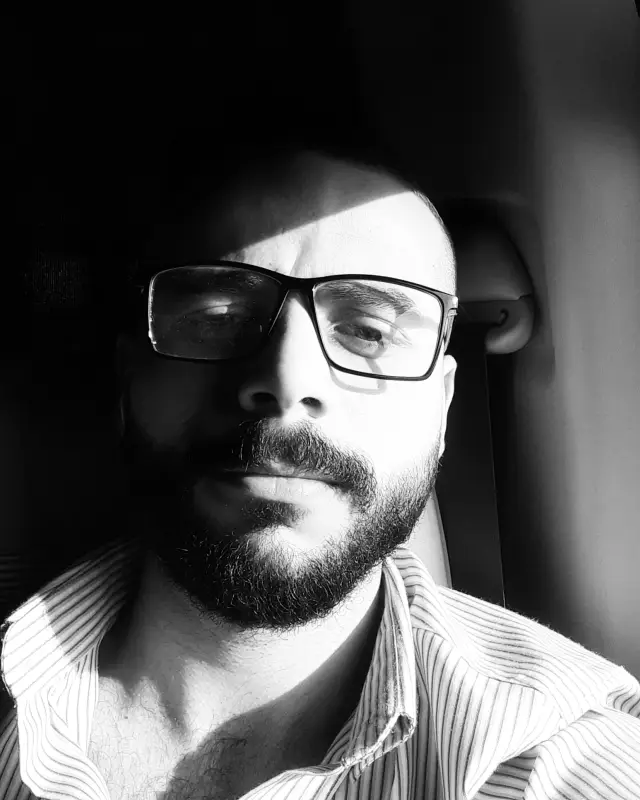
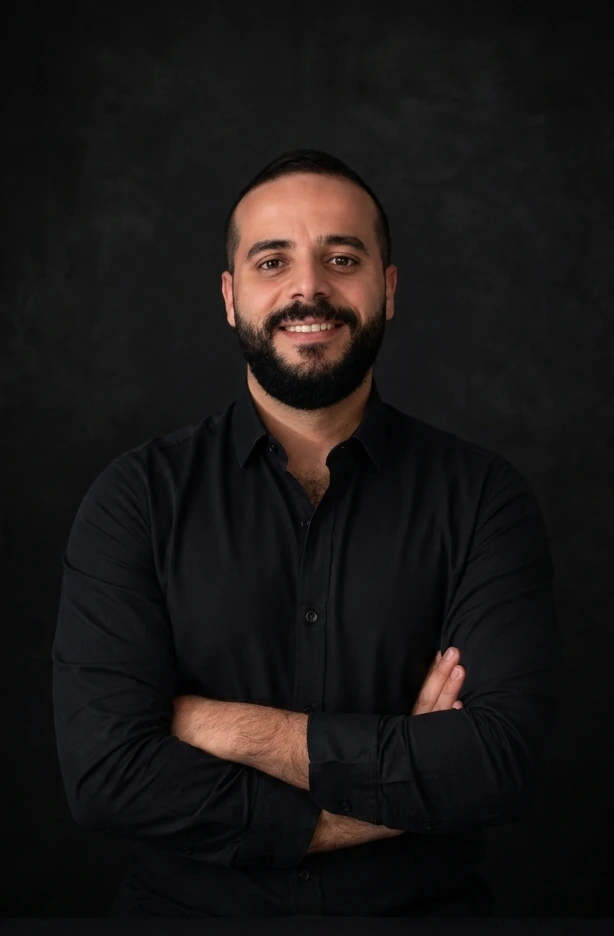
fix: improve image handling and layout in HeroSection and About pages

diff --git a/app/shared/components/app/Portrait.vue b/app/shared/components/app/Portrait.vue
@@ -15,7 +15,8 @@ const props = withDefaults(defineProps<Props>(), {
   alt: 'Portrait of Mohamed Essam',
   loading: 'lazy',
   fetchPriority: 'auto',
-  sizes: '160px',
+  // Featured / about-scale default; pass a tighter sizes hint for small teasers.
+  sizes: '(max-width: 640px) 80vw, 384px',
 });
 </script>
 
@@ -27,10 +28,10 @@ const props = withDefaults(defineProps<Props>(), {
     :loading="props.loading"
     :fetchpriority="props.fetchPriority"
     format="webp"
-    quality="65"
-    :widths="[160, 224, 320]"
+    quality="85"
+    :widths="[320, 480, 640, 768]"
     :sizes="props.sizes"
-    width="320"
-    height="400"
+    width="640"
+    height="800"
   />
 </template>

diff --git a/app/modules/home/components/HeroSection.vue b/app/modules/home/components/HeroSection.vue
@@ -173,7 +173,7 @@ onScopeDispose(() => {
                   <span class="text-primary">$</span>
                   <span class="ml-2 text-foreground">{{ line.text }}</span>
                 </template>
-                <span class="text-muted-foreground">{{ line.text }}</span>
+                <span v-else class="text-muted-foreground">{{ line.text }}</span>
               </p>
               <p v-if="typingDone" class="flex items-center" aria-hidden="true">
                 <span class="text-primary">$</span>

diff --git a/app/pages/about.vue b/app/pages/about.vue
@@ -150,7 +150,11 @@ useHead({
               ref="portraitLayer"
               class="overflow-hidden rounded-[1.4rem] transition-transform duration-500 ease-out"
             >
-              <Portrait class="aspect-4/5 w-full" :alt="`Portrait of ${name}`" />
+              <Portrait
+                class="aspect-4/5 w-full"
+                :alt="`Portrait of ${name}`"
+                sizes="(max-width: 1024px) 360px, 420px"
+              />
             </div>
           </div>
         </div>
